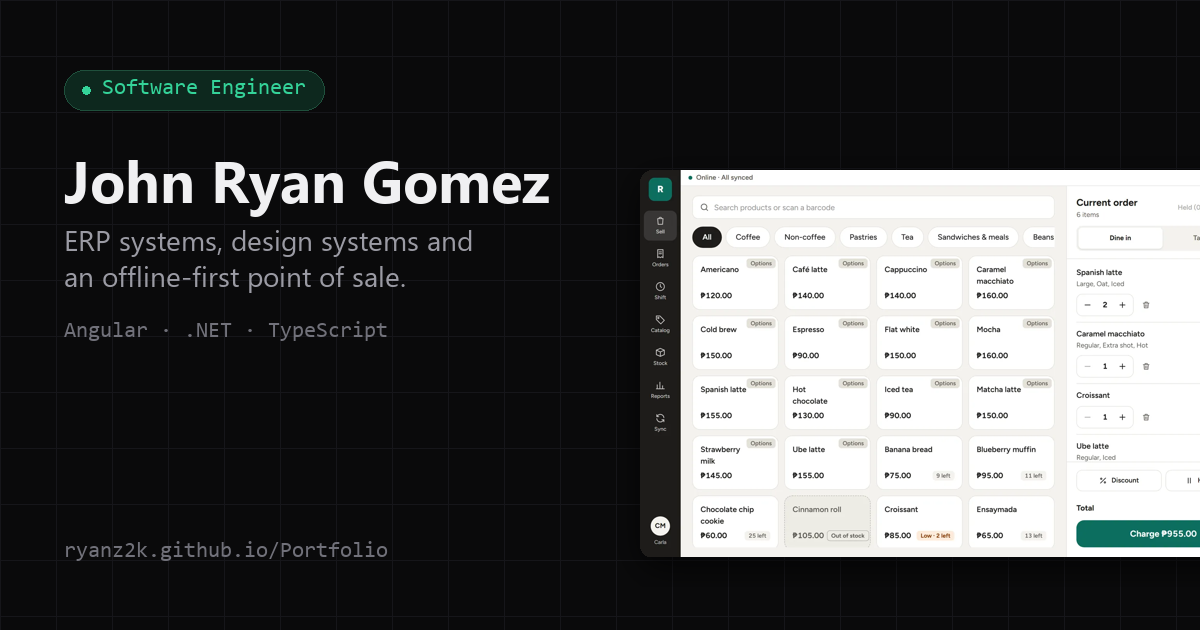
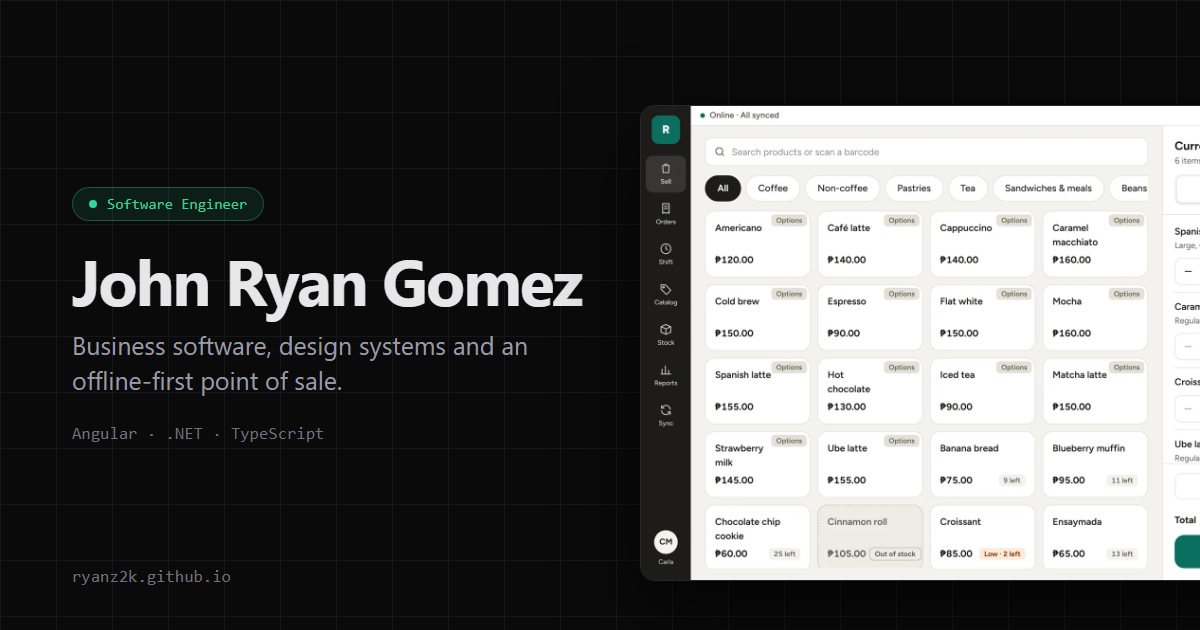
Refresh link-preview image and description for the new address

diff --git a/index.html b/index.html
@@ -15,7 +15,7 @@
     <meta property="og:title" content="John Ryan Gomez — Software Engineer" />
     <meta
       property="og:description"
-      content="Business software, design systems and an offline-first POS. Angular, .NET and TypeScript."
+      content="Software engineer in Cebu building business software, design systems and an offline-first point of sale. Angular, .NET and TypeScript."
     />
     <meta property="og:url" content="https://ryanz2k.github.io/" />
     <meta property="og:image" content="https://ryanz2k.github.io/og.png" />
